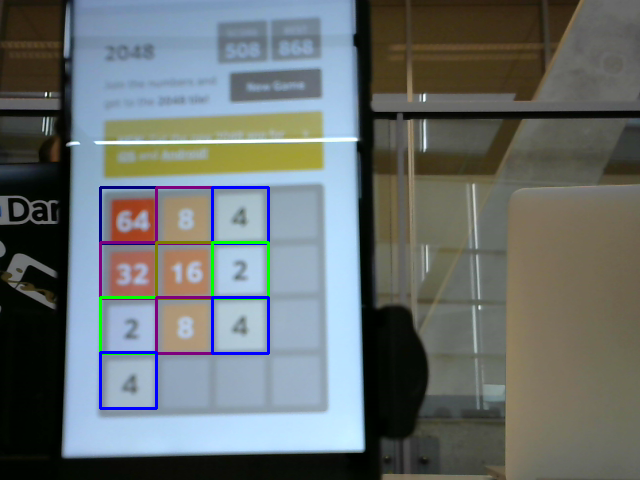
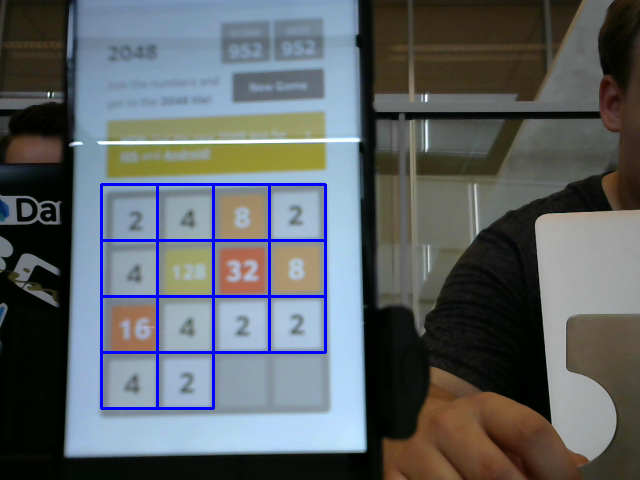
Templates toevoegen dynamischer gemaakt (kleur in gecreëerde res "uitgezet")

diff --git a/robot_vision/vision.py b/robot_vision/vision.py
@@ -12,7 +12,7 @@ tiles = None
 path = '' if "robot_vision" in os.getcwd() else 'robot_vision/'
 template_path = path + 'templates'
 tile_path = template_path + '/tiles'
-tile_info = [((),0), ((0,255,0),2), ((255,0,0),4), ((125,0,125),8), ((0,125,125),16), ((0,0,255),32), ((125, 0, 0),64)]
+tile_info = [0] + [1 << i for i in range(1, 15)]
 
 grid = []
 board = [0] * 16
@@ -49,7 +49,7 @@ def getAllMatches():
     index = 0
     for tile in tiles:
         tile_template = cv2.imread(tile_path + '/' + tile, 0)
-        templates.append((tile_template, tile_info[index][0], tile_info[index][1]))
+        templates.append((tile_template, tile_info[index]))
         index += 1
     getMatches(templates,grid)
 
@@ -61,7 +61,6 @@ def getMatches(templates,grid):
         grid_fragment = img_gray[point[0][1]:point[1][1], point[0][0]:point[1][0]]
         best_accuracy = 0
         best_value = 0
-        color = None
 
         for template in templates:
             res = cv2.matchTemplate(grid_fragment, template[0], cv2.TM_CCOEFF_NORMED)
@@ -72,15 +71,14 @@ def getMatches(templates,grid):
                 continue
             if best_accuracy < accuracy:
                 best_accuracy = accuracy
-                color = template[1]
-                best_value = template[2]
+                best_value = template[1]
 
                 # print("VALUE: "+str(template[2])+" BETTER ACCURACY:"+str(accuracy))
             # else:
             #     print("VALUE: "+str(template[2])+" WORSE ACCURACY:"+str(accuracy))
         board[index] = best_value
         if best_value > 0:
-            cv2.rectangle(img_rgb,point[0],point[1],color,2)
+            cv2.rectangle(img_rgb,point[0],point[1],(255,0,0),2)
         index += 1
 
 
